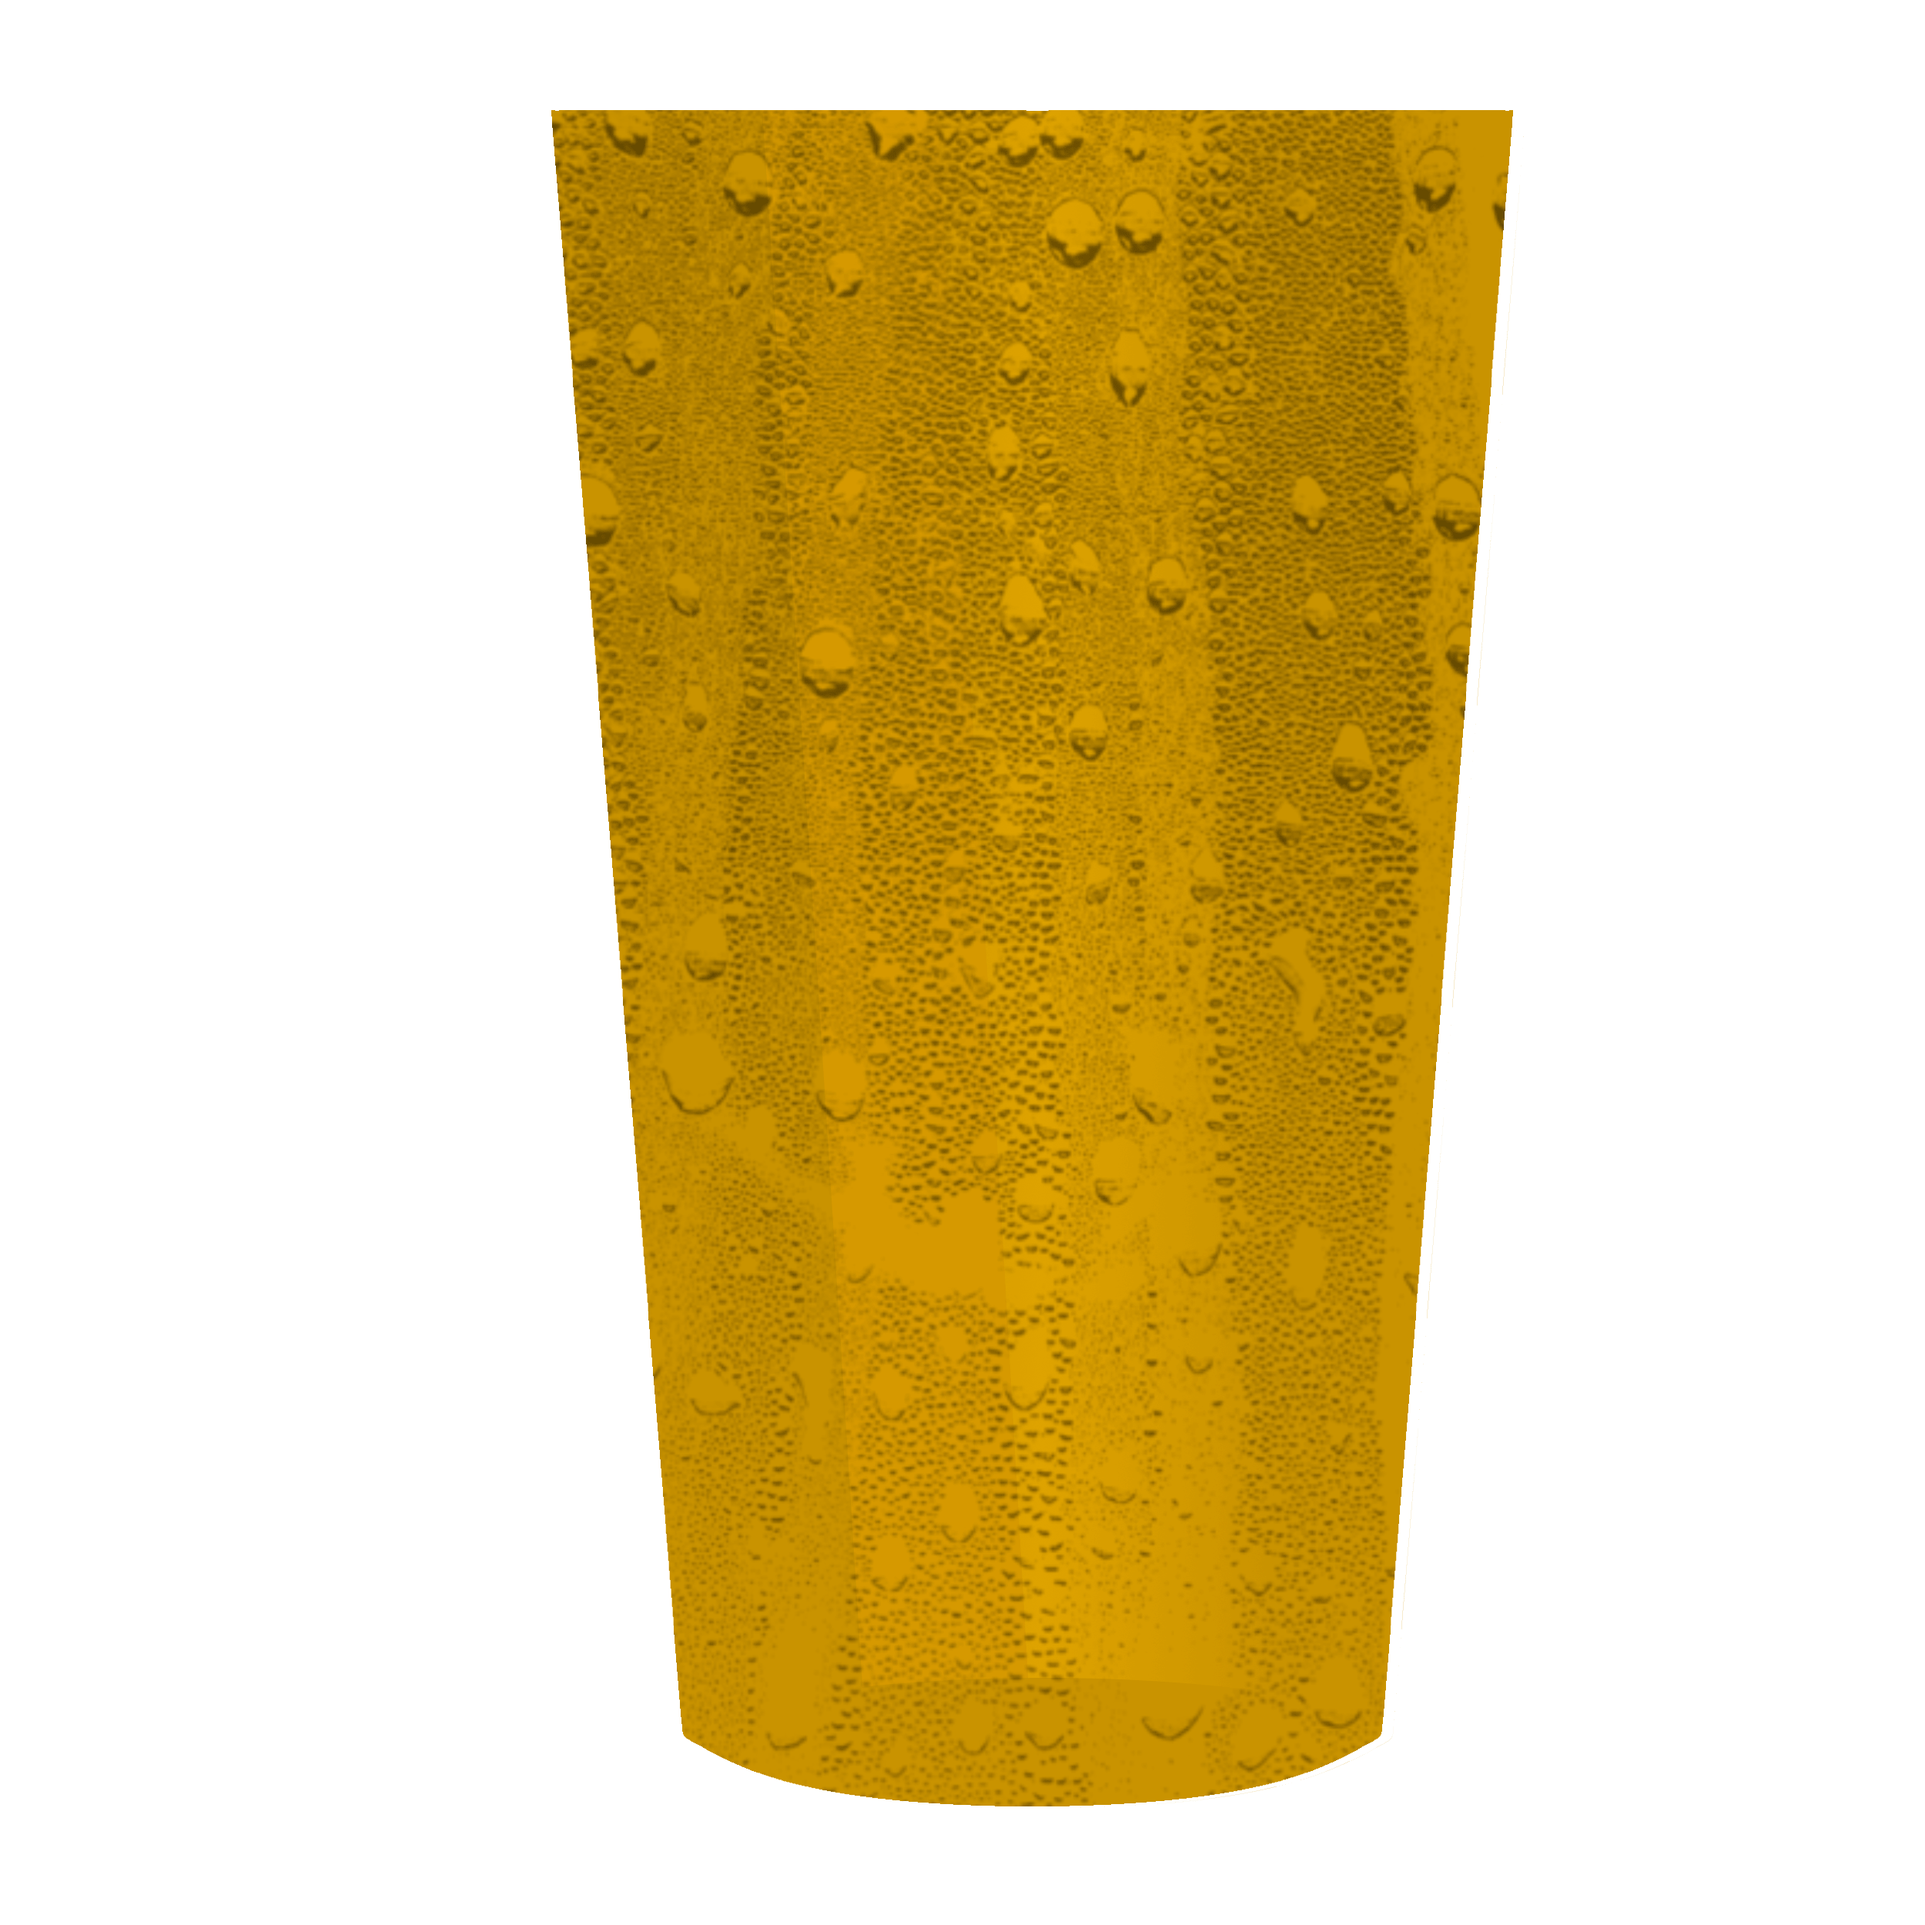
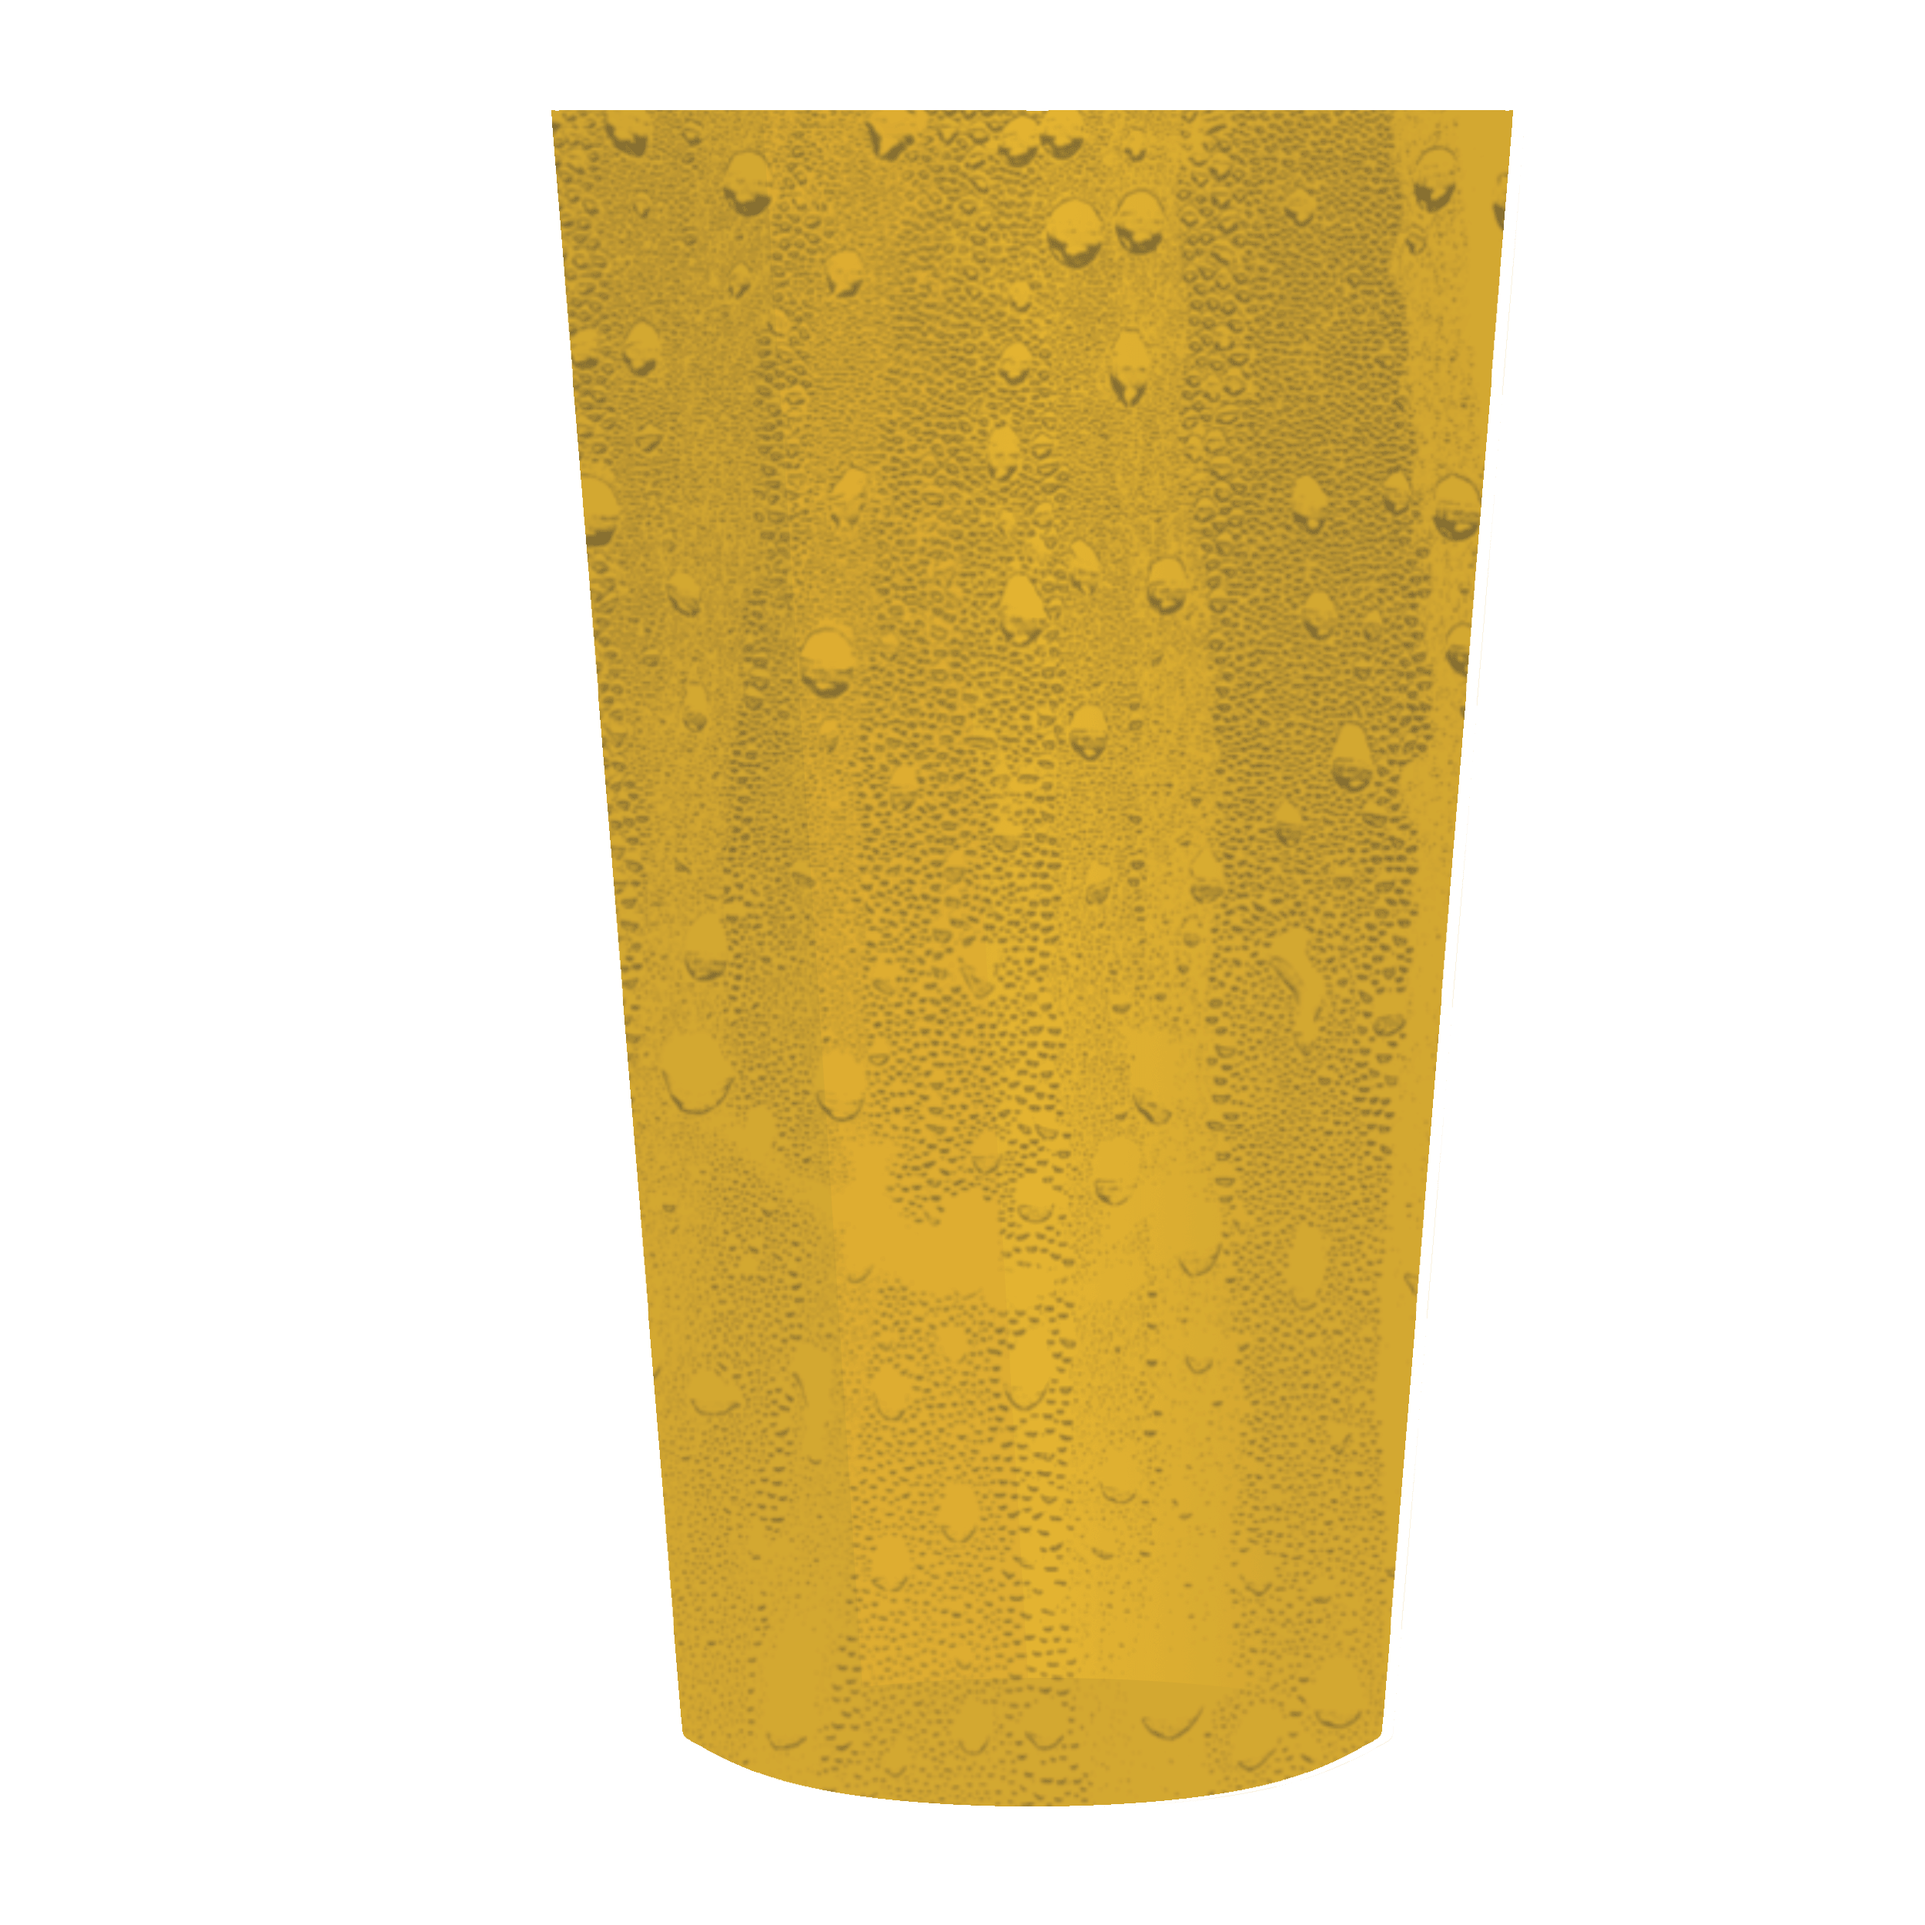
Added a background.

diff --git a/js/glass.js b/js/glass.js
@@ -1,91 +1,83 @@
-/*
-  Constants
-*/
-const glassId = 'brax-glass-blonde';
-const foamThickness = 0.2;
-let fillPercentage = 0.8;
+class Glass {
 
-/*
-  Elements
-*/
-const glassContainer = document.getElementById(glassId);
-const glassContent = glassContainer.getElementsByClassName(`brax-glass-content`)[0];
-const glassForeground = glassContainer.getElementsByClassName(`brax-glass-foreground`)[0];
-const glassFoam = glassContainer.getElementsByClassName(`brax-glass-foam`)[0];
+  constructor(glassId, fillPercentage, foamThickness) {
+    this.glassId = glassId;
+    this.fillPercentage = fillPercentage;
+    this.foamThickness = foamThickness;
 
-/*
-  Event handlers
-*/
-window.addEventListener('resize', resizeGlass);
+    this.glassContainer = document.getElementById(glassId);
+    this.glassContent = this.glassContainer.getElementsByClassName(`brax-glass-content`)[0];
+    this.glassForeground = this.glassContainer.getElementsByClassName(`brax-glass-foreground`)[0];
+    this.glassFoam = this.glassContainer.getElementsByClassName(`brax-glass-foam`)[0];
 
-/*
-  Functions
-*/
-function getWidth() {
-  return glassContainer.clientHeight;
+    window.addEventListener('resize', function() { this.render(); }.bind(this));
+
+    this.render();
+  }
+
+  getWidth() {
+    return this.glassContainer.clientHeight;
+  }
+
+  getFoamThickness() {
+    return this.foamThickness * this.fillPercentage;
+  }
+
+  getHeightForForeground() {
+    return Math.ceil((1 - this.fillPercentage) * this.getWidth());
+  }
+
+  getHeightForContent() {
+    return Math.ceil(this.getWidth() * this.fillPercentage);
+  }
+
+  getBottomForFoam() {
+    return Math.ceil(this.getHeightForForeground());
+  }
+
+  getHeightForFoam() {
+    return Math.ceil(this.getWidth() * this.getFoamThickness());
+  }
+
+  getTopForContent() {
+    return Math.ceil(this.getWidth() - this.getHeightForContent());
+  }
+
+  getTopForFoam() {
+    return Math.ceil(this.getTopForContent() - this.getHeightForFoam() + 1);
+  }
+
+  getBackgroundPositionForFoam() {
+    return Math.ceil(this.getTopForFoam() * -1);
+  }
+
+  render() {
+    console.log("resizing");
+    const width = this.getWidth();
+    this.glassContainer.style.width = `${width}px`;
+
+    this.glassForeground.style.height = `${this.getHeightForForeground()}px`;
+    this.glassContent.style.height = `${this.getHeightForContent()}px`;
+
+    this.glassFoam.style.top = `${this.getTopForFoam()}px`;
+    this.glassFoam.style.height = `${this.getHeightForFoam()}px`;
+
+    this.glassFoam.style.backgroundPosition = `0 ${this.getBackgroundPositionForFoam()}px`
+
+    this.glassForeground.style.backgroundSize = `${width}px ${width}px`;
+    this.glassContent.style.backgroundSize = `${width}px ${width}px`;
+    this.glassFoam.style.backgroundSize = `${width}px ${width}px`;
+  }
+
+  setFillPercentage(newPercentage) {
+    this.fillPercentage = newPercentage;
+    this.render();
+  }
 }
 
-function getFoamThickness() {
-  return foamThickness * fillPercentage;
-}
-
-function getHeightForForeground() {
-  return (1 - fillPercentage) * getWidth();
-}
-
-function getHeightForContent() {
-  return getWidth() * fillPercentage;
-}
-
-function getBottomForFoam() {
-  return getHeightForForeground();
-}
-
-function getHeightForFoam() {
-  return this.getWidth() * this.getFoamThickness();
-}
-
-function getTopForContent() {
-  return this.getWidth() - this.getHeightForContent();
-}
-
-function getTopForFoam() {
-  return this.getTopForContent() - this.getHeightForFoam();
-}
-
-function getBackgroundPositionForFoam() {
-  return this.getTopForFoam() * -1;
-}
-
-function resizeGlass() {
-  console.log("resizing");
-  const width = getWidth();
-  glassContainer.style.width = `${width}px`;
-
-  glassForeground.style.height = `${getHeightForForeground()}px`;
-  glassContent.style.height = `${getHeightForContent()}px`;
-
-  glassFoam.style.top = `${getTopForFoam()}px`;
-  glassFoam.style.height = `${getHeightForFoam()}px`;
-
-  glassFoam.style.backgroundPosition = `0 ${getBackgroundPositionForFoam()}px`
-
-  glassForeground.style.backgroundSize = `${width}px ${width}px`;
-  glassContent.style.backgroundSize = `${width}px ${width}px`;
-  glassFoam.style.backgroundSize = `${width}px ${width}px`;
-}
-
-function setFillPercentage(newPercentage) {
-  fillPercentage = newPercentage;
-  resizeGlass();
-}
-
-/*
-  Start
-*/
-resizeGlass();
+const glass = new Glass('brax-glass-blonde', 0.8, 0.3);
 
 const glassSlider = document.getElementById("glass-slider");
-glassSlider.oninput = function() {
-  setFillPercentage(this.value);
+glassSlider.oninput = function () {
+  glass.setFillPercentage(this.value);
 }

diff --git a/css/index.css b/css/index.css
@@ -1,5 +1,6 @@
 * {
   box-sizing: border-box;
+  border: 0;
   margin: 0;
   padding: 0;
 }
@@ -15,11 +16,13 @@ body {
   height: 100%;
 
   position: relative;
-  
-  background-color: beige;
+  background-image: url('./../img/background.png');
+  background-position: center;
+  background-size: cover;
 }
 
 #glass-slider {
   position: absolute;
+  z-index: 10;
 }
 

diff --git a/css/glass.css b/css/glass.css
@@ -1,7 +1,8 @@
 .brax-glass-container {
   position: relative;
-  height: 100%;
+  height: 80%;
   margin: 0 auto;
+  top: 10%;
 }
 
 .brax-glass-container * {
